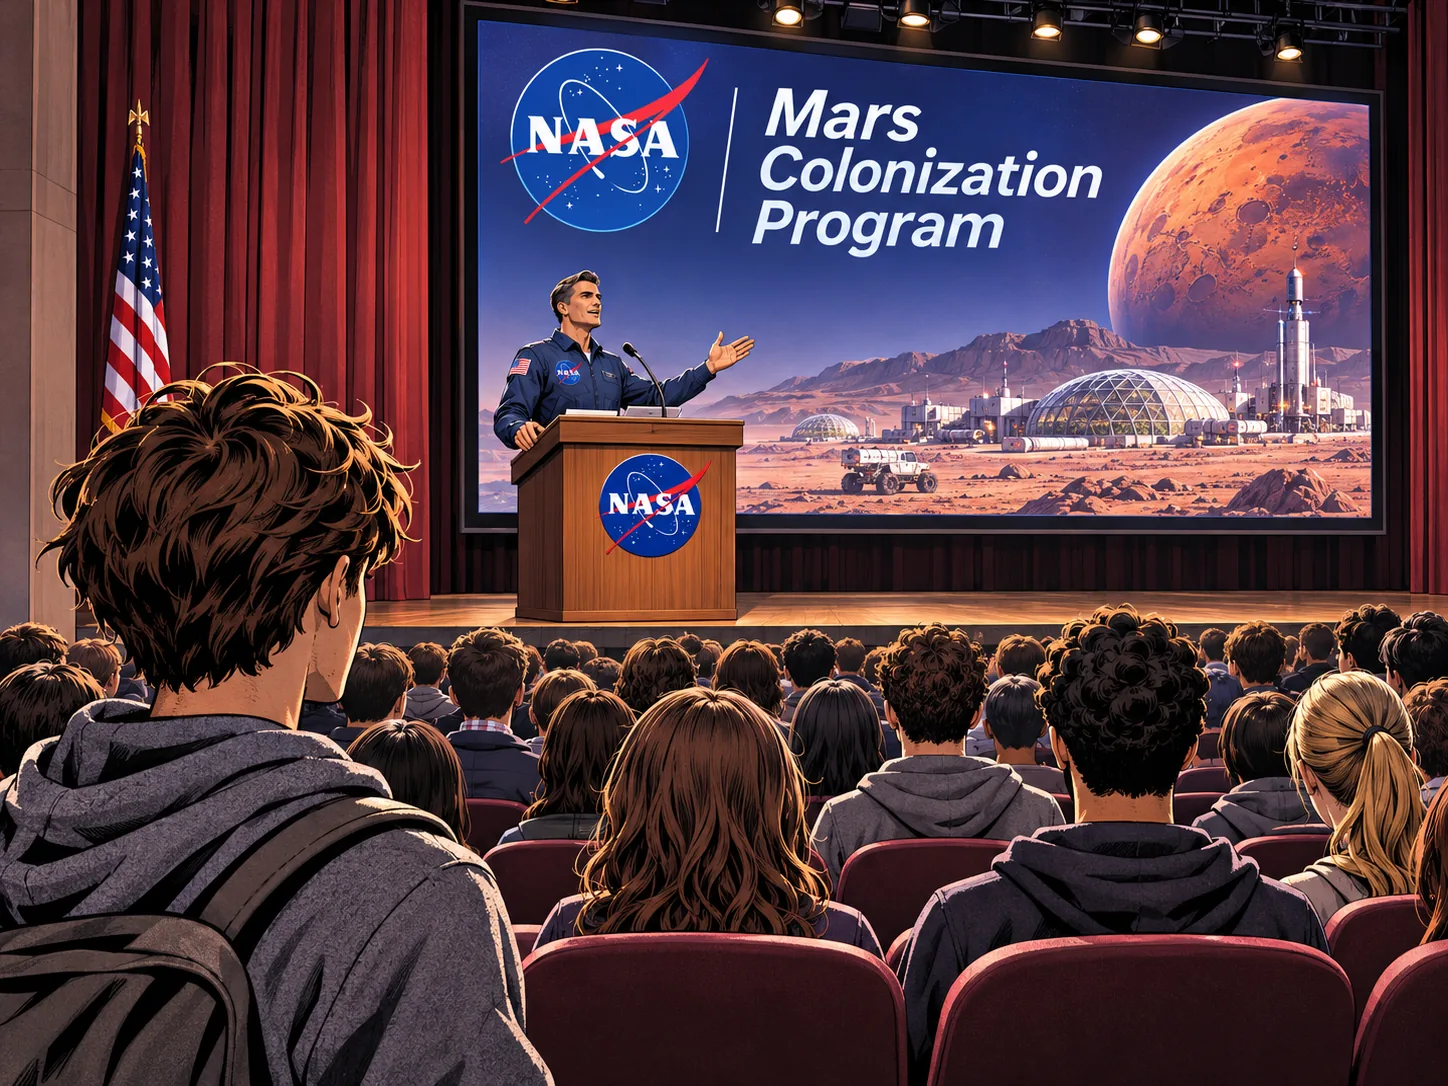
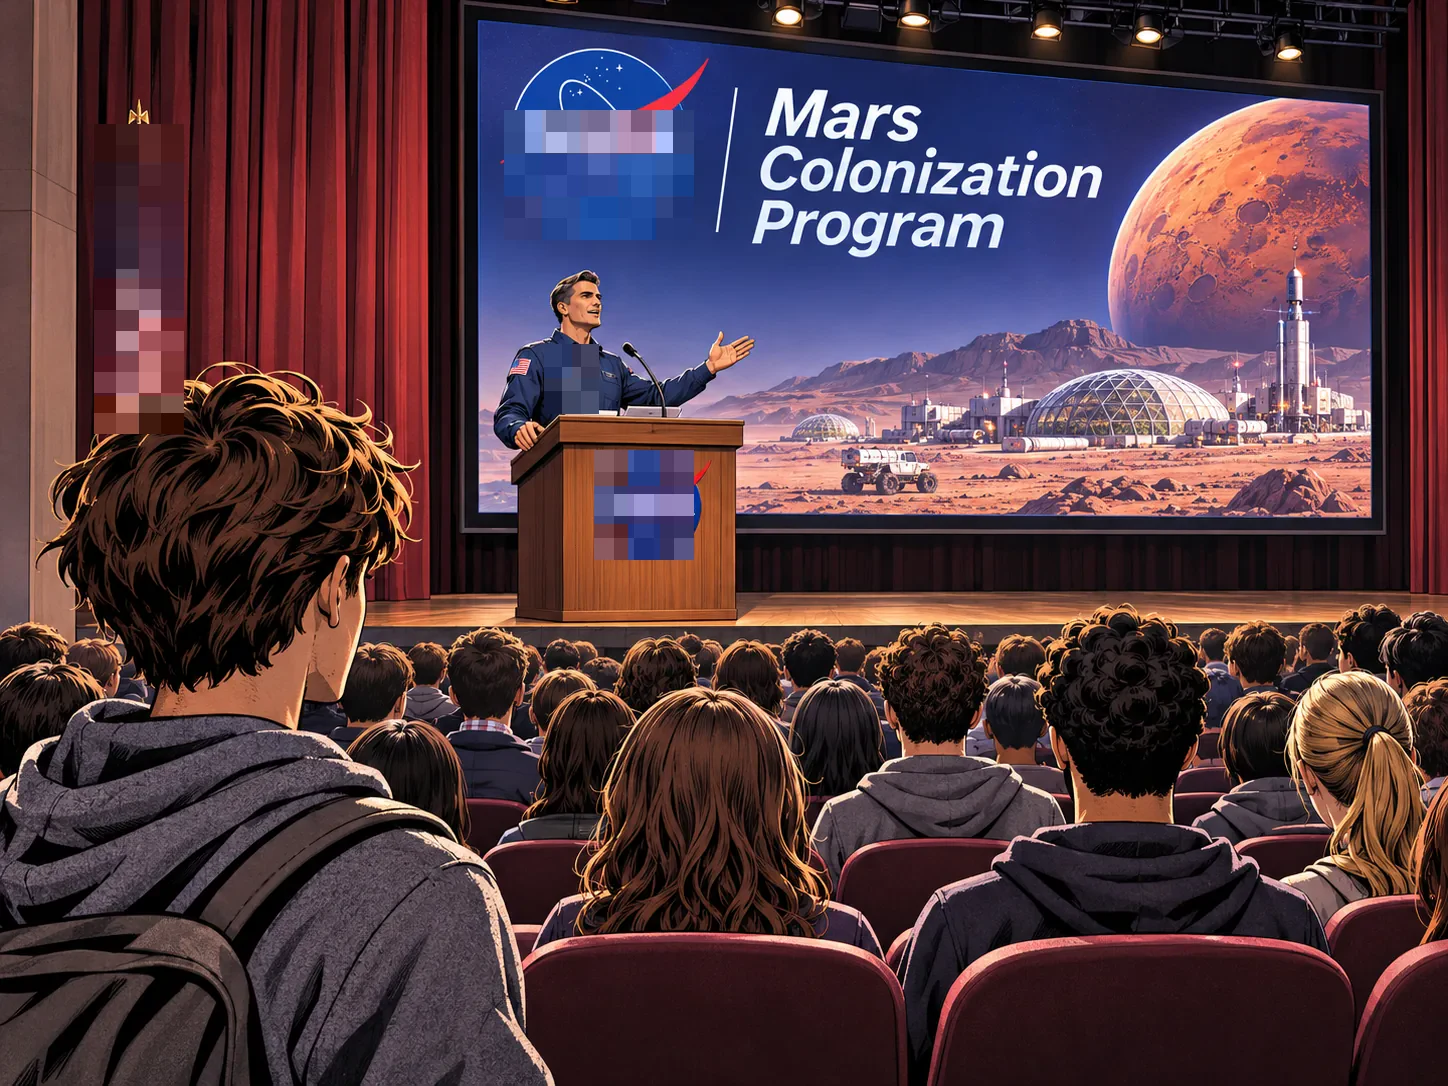
Add AI disclosure watermark and sanitize intro branding

Changed region(s): [[0.3419, 0.0912, 0.4972, 0.2431], [0.0622, 0.1215, 0.1243, 0.4254], [0.3729, 0.3039, 0.4972, 0.5166]]

diff --git a/media.css b/media.css
@@ -1,7 +1,7 @@
 .scene-audio{width:100%;margin:10px 0 0;border:1px solid #2a3850;border-radius:8px;background:#101724;color:#f4f1e9;accent-color:#ff713f}
 .scene-audio::-webkit-media-controls-panel{background:#101724}
 .intro-grid{display:grid;grid-template-columns:minmax(0,1.08fr) minmax(320px,.92fr);gap:24px;align-items:stretch;margin-top:28px}
-.intro-art{margin:0;min-height:420px;border:1px solid var(--line);background:#0a0e18;border-radius:var(--radius);overflow:hidden;box-shadow:var(--shadow)}
+.intro-art{position:relative;margin:0;min-height:420px;border:1px solid var(--line);background:#0a0e18;border-radius:var(--radius);overflow:hidden;box-shadow:var(--shadow)}
 .intro-art img{display:block;width:100%;height:100%;min-height:420px;object-fit:cover}
 .intro-art figcaption{padding:11px 14px;color:var(--muted);font-size:11px;letter-spacing:.08em;text-transform:uppercase;background:#0c121d}
 .intro-copy{border:1px solid var(--line);background:#111722dd;border-radius:var(--radius);padding:26px;display:flex;flex-direction:column;justify-content:center}
@@ -10,6 +10,7 @@
 .intro-briefing p{font-family:Georgia,serif;color:var(--text);font-size:17px;line-height:1.5;margin:8px 0 0}
 .intro-copy .primary-button{align-self:flex-start}
 .video-stage{position:absolute;inset:0;z-index:1;overflow:hidden;background:#070a12}
+.video-stage::after,.intro-art::after,.rh-intro-frame::after{content:'AI-generated · Generado con IA';position:absolute;top:12px;right:12px;z-index:30;pointer-events:none;white-space:nowrap;padding:5px 8px;border:1px solid rgba(255,255,255,.28);border-radius:4px;background:rgba(5,8,14,.72);color:#fff;font:600 11px/1.1 Inter,system-ui,sans-serif;letter-spacing:.02em;text-shadow:0 1px 2px #000}
 .video-frame .video-layer{position:absolute;inset:0;width:100%;height:100%;min-height:0;object-fit:cover;opacity:0;pointer-events:none;transition:none}
 .video-frame .video-layer.is-active{opacity:1;pointer-events:auto}
 .video-frame .scene-image{position:absolute;inset:0;width:100%;height:100%;object-fit:cover;opacity:1;display:block;background:#070a12}
@@ -18,6 +19,7 @@
 @media (max-width:900px){.video-frame .video-layer{min-height:360px}}
 @media (max-width:620px){.video-frame .video-layer{min-height:315px}}
 @media (max-width:900px){.intro-grid{grid-template-columns:1fr}.intro-art,.intro-art img{min-height:300px}.intro-copy{padding:22px}}
+@media (max-width:620px){.video-stage::after,.intro-art::after,.rh-intro-frame::after{top:8px;right:8px;font-size:11px;padding:4px 6px}}
 
 /* Netflix-like narrative overlay: the story breathes over the image/video. */
 .story-main{position:relative}
